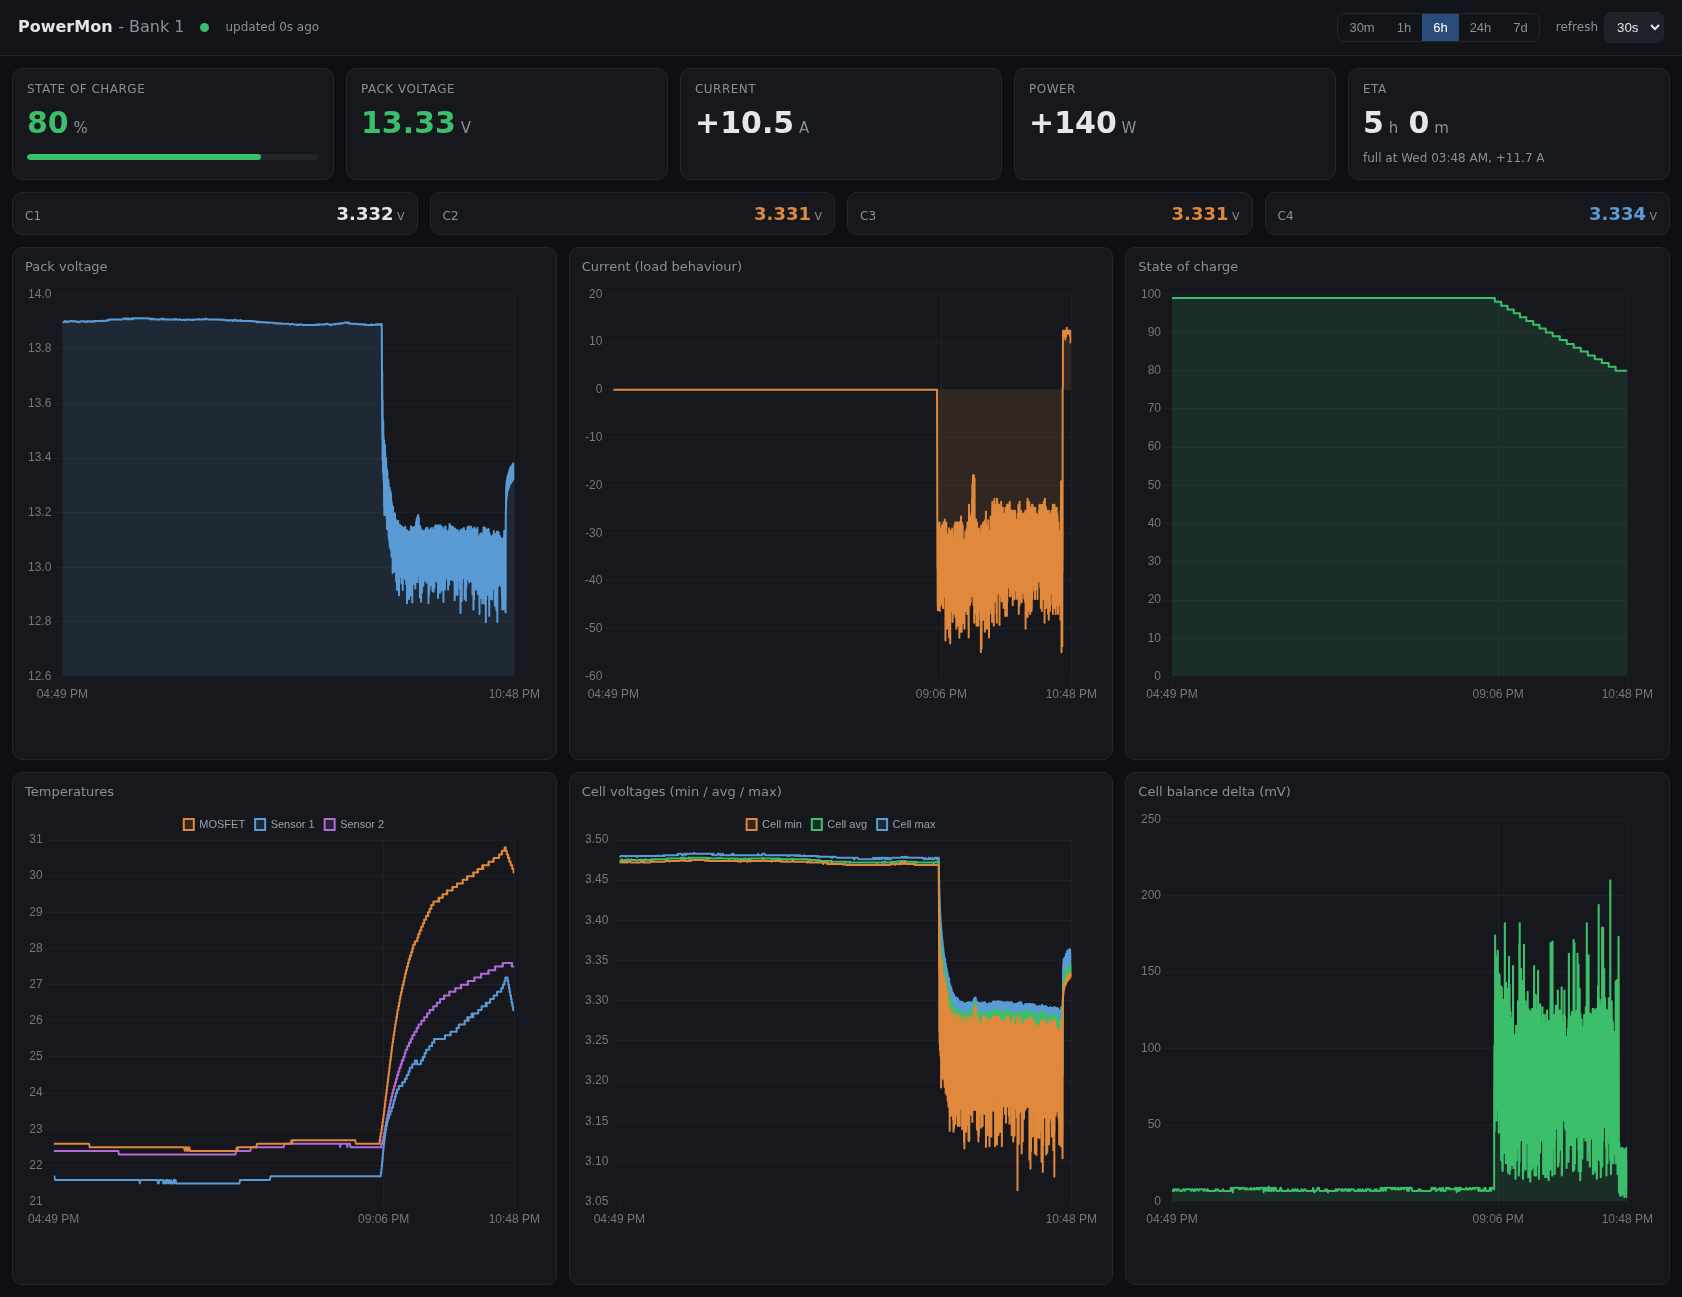
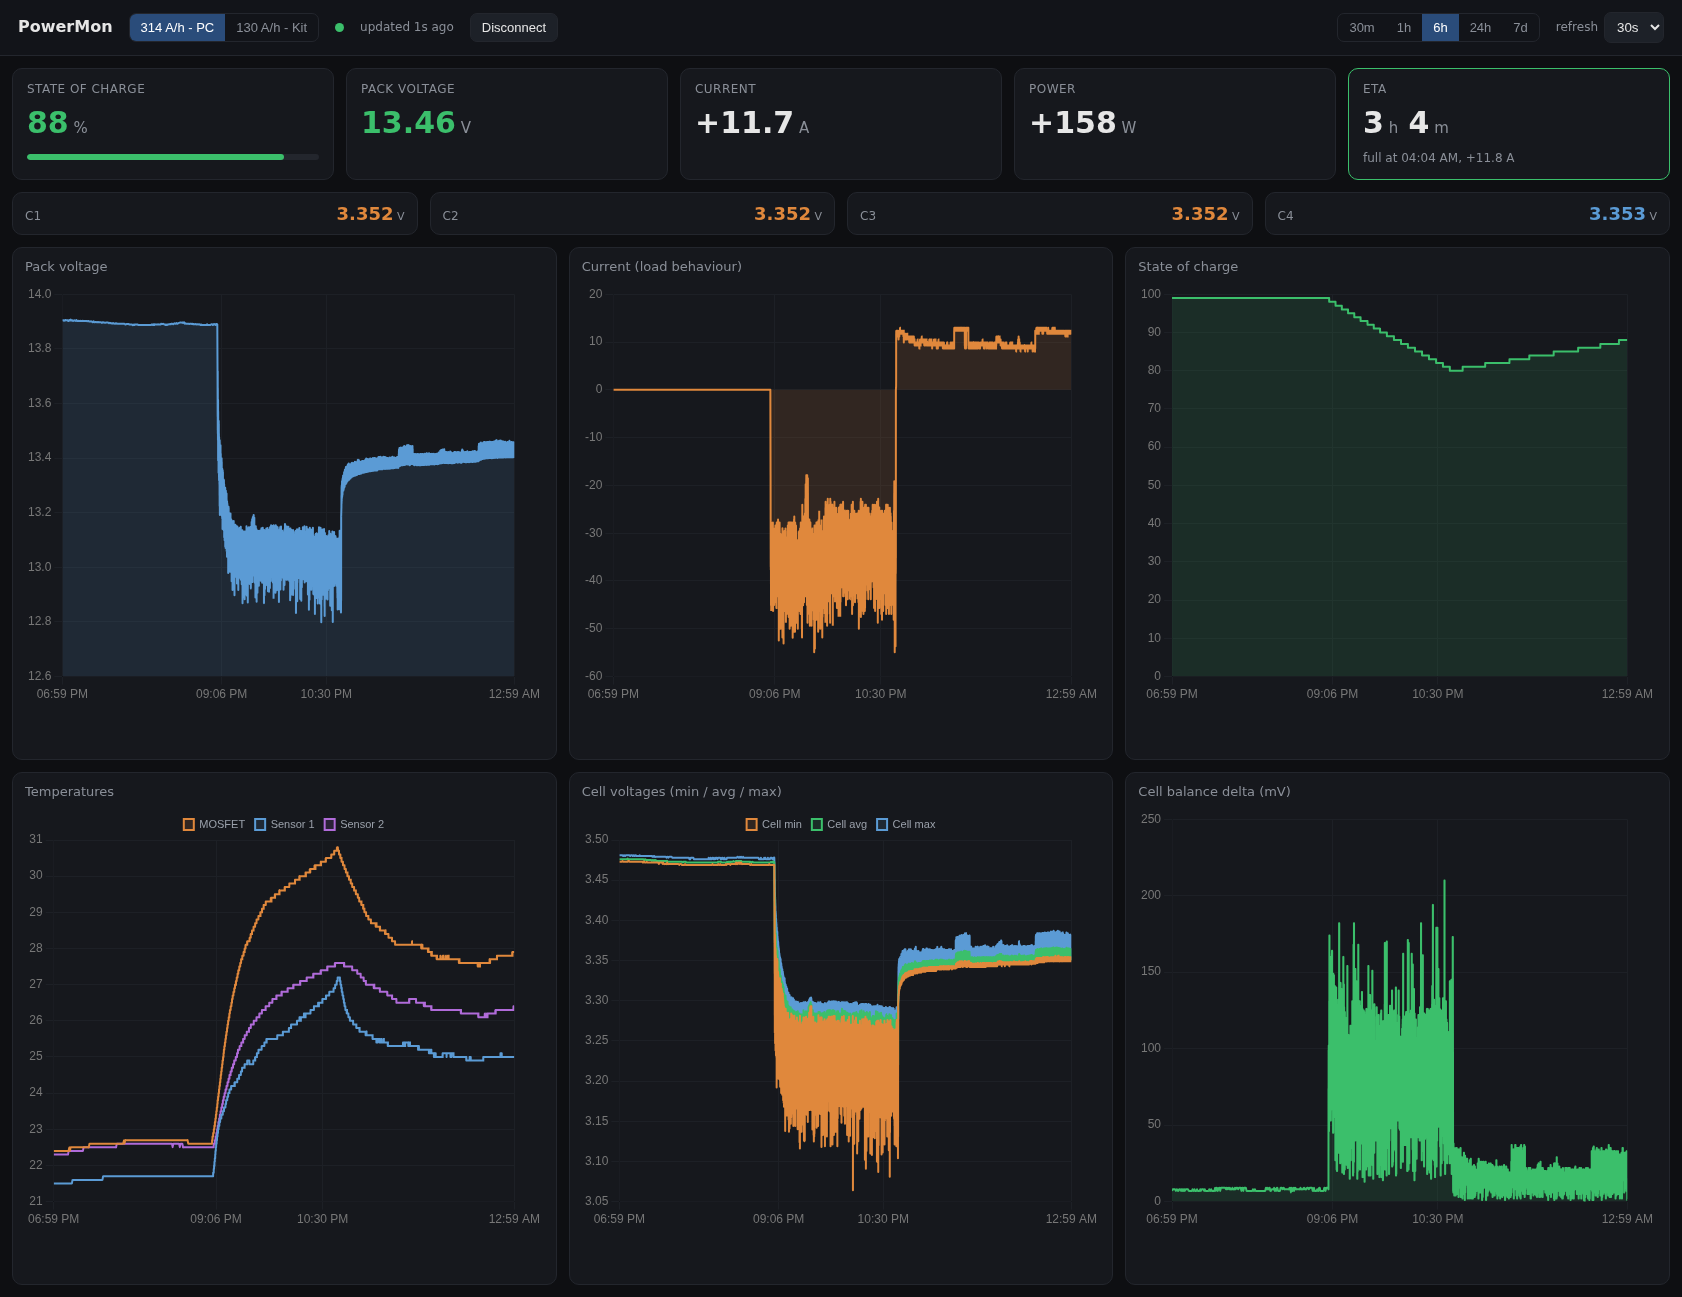
README screenshots with the bank buttons; legend names don't split on wrap
docs/app.png: the desktop app at its default size (1442x968 px at a 1.25 scale);
docs/dashboard.png: the web dashboard. In the app, a wrapped legend broke
"Cell avg" in two - names now keep their spaces unbreakable.

diff --git a/app/powermon_app.py b/app/powermon_app.py
@@ -165,7 +165,7 @@ class Chart:
         self.frame, lay = card((12, 10, 12, 10), 6)
         # legend items break onto a second line when the card is narrow
         legend = "" if len(series) == 1 else "&nbsp;&nbsp; " + " &nbsp;".join(
-            f'<span style="color:{c}">●</span>&nbsp;<span style="color:#9aa0aa">{n}</span>'
+            f'<span style="color:{c}">●</span>&nbsp;<span style="color:#9aa0aa">{n.replace(" ", "&nbsp;")}</span>'
             for n, c in series)
         head = label(title + legend, "h2")
         head.setWordWrap(True)
